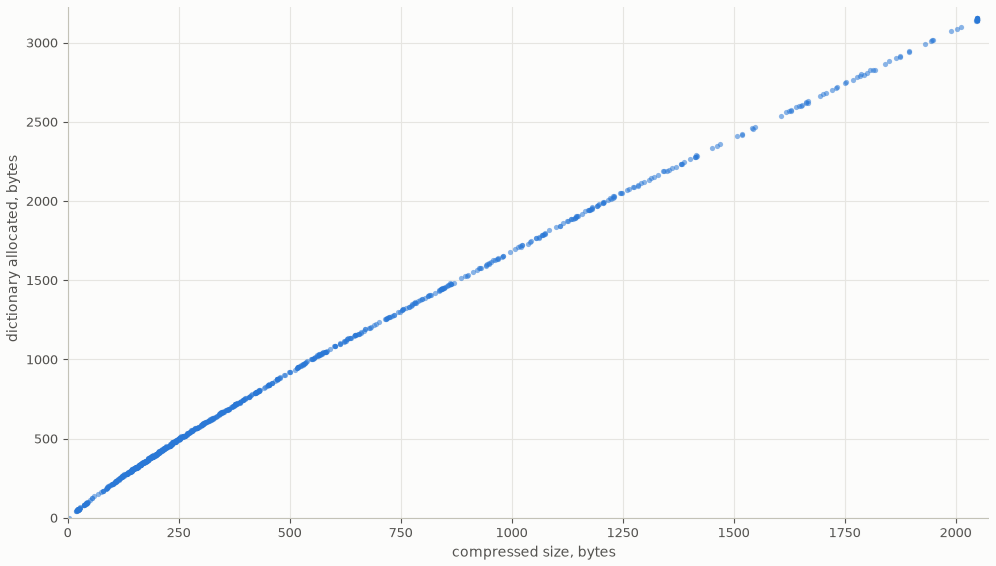
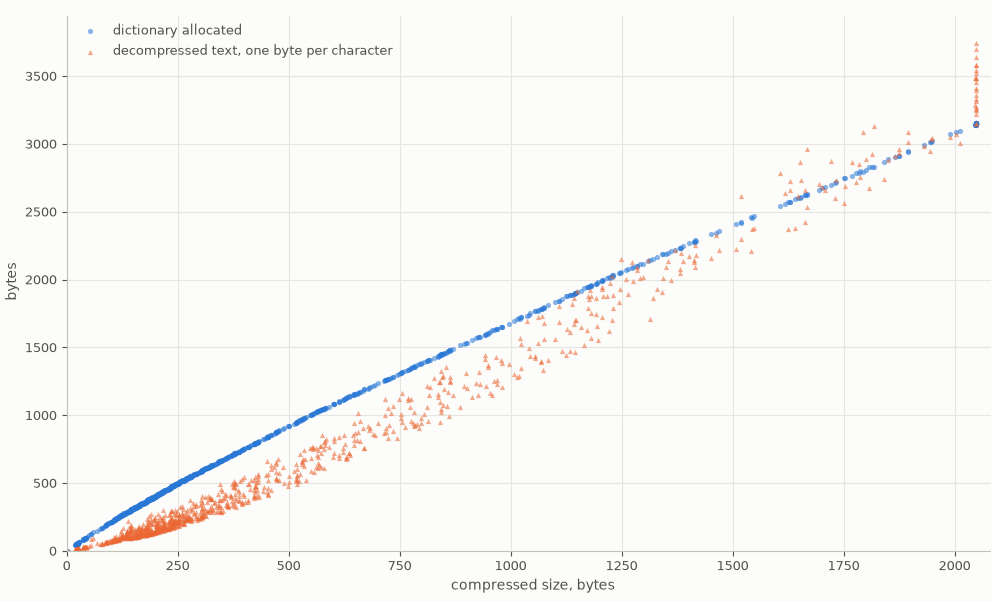
graphic additionaly shows KAT decompressed size

diff --git a/README.md b/README.md
@@ -4,7 +4,7 @@
 
 The code aims at correctness, interoperability, moderate RAM usage, clarity, and then only speed.
 
-#### Bytes allocated for the dictionary against the compressed size, over the 1000 known answer tests:
+#### Bytes allocated for the dictionary, and decompressed size, against the compressed size, over the 1000 known answer tests:
 
 ![dictionary bytes allocated versus compressed size, over the known answer tests](dictsize.png)
 
